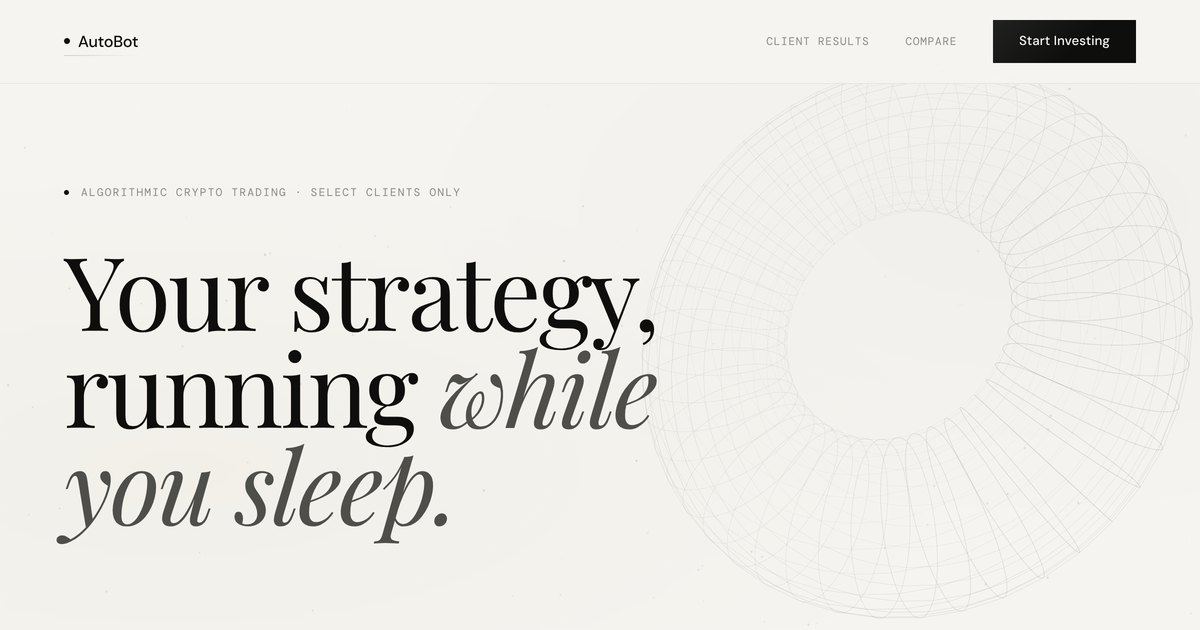
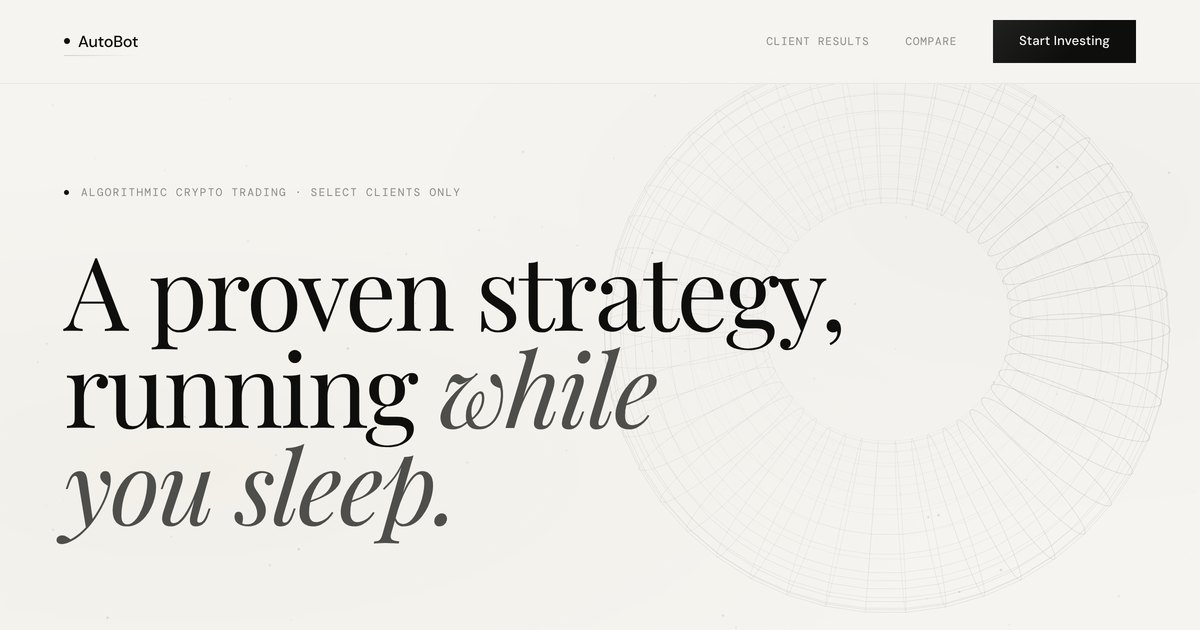
Homepage: one consistent story - a strategy our team builds and runs
- Hero: "A proven strategy, running while you sleep."
- Intro: AutoBot "runs our trading strategy in your account".
- Safety FAQ: rules-based strategy built and managed by our team; client
  chooses risk level; stops, size and drawdown limits enforced automatically.
- Meta/share descriptions updated to match; preview image regenerated.

Claude-Session: https://claude.ai/code/session_01BoLtU1gwejhGPjD2Pr7BHx

Changed region(s): [[0.0617, 0.3921, 0.7092, 0.573]]

diff --git a/index.html b/index.html
@@ -5,18 +5,18 @@
 <meta name="viewport" content="width=device-width, initial-scale=1.0">
 <meta name="format-detection" content="telephone=no">
 <title>AutoBot — Algorithmic Crypto Trading</title>
-<meta name="description" content="AutoBot runs your crypto trading strategy automatically, 24/7, directly inside your own Bybit or Hyperliquid account. Your funds never leave your exchange. Real verified client results, no profit-sharing — just one flat annual fee.">
+<meta name="description" content="AutoBot runs our proven crypto trading strategy automatically, 24/7, directly inside your own Bybit or Hyperliquid account. Your funds never leave your exchange. Real client results, no profit-sharing — just one flat annual fee.">
 <meta property="og:type" content="website">
 <meta property="og:site_name" content="AutoBot">
 <meta property="og:title" content="AutoBot — Algorithmic Crypto Trading">
-<meta property="og:description" content="Your strategy, running while you sleep. Fully automated crypto trading that never touches your funds — connects directly to your own exchange account, 24/7.">
+<meta property="og:description" content="A proven strategy, running while you sleep. Fully automated crypto trading that never touches your funds — connects directly to your own exchange account, 24/7.">
 <meta property="og:url" content="https://autobot.trading/">
 <meta property="og:image" content="https://autobot.trading/og-image.jpg">
 <meta property="og:image:width" content="1200">
 <meta property="og:image:height" content="630">
 <meta name="twitter:card" content="summary_large_image">
 <meta name="twitter:title" content="AutoBot — Algorithmic Crypto Trading">
-<meta name="twitter:description" content="Your strategy, running while you sleep. Fully automated crypto trading that never touches your funds.">
+<meta name="twitter:description" content="A proven strategy, running while you sleep. Fully automated crypto trading that never touches your funds.">
 <meta name="twitter:image" content="https://autobot.trading/og-image.jpg">
 <link rel="preconnect" href="https://fonts.googleapis.com">
 <link href="https://fonts.googleapis.com/css2?family=Playfair+Display:ital,wght@0,400;0,500;1,400;1,500&family=DM+Sans:wght@300;400;500&family=DM+Mono:wght@300;400&display=swap" rel="stylesheet">
@@ -763,9 +763,9 @@ footer{position:relative;}
 <section class="hero">
   <div class="hero-content">
     <div class="hero-eyebrow fade-up"><span class="eyebrow-dot"></span>Algorithmic crypto trading · Select clients only</div>
-    <h1 class="fade-up">Your strategy,<br>running <em>while<br>you sleep.</em></h1>
+    <h1 class="fade-up">A proven strategy,<br>running <em>while<br>you sleep.</em></h1>
     <div class="hero-row fade-up">
-      <p class="hero-sub">AutoBot connects to <strong>Bybit</strong> and <strong>Hyperliquid</strong> through a secure API and executes your trading strategy automatically — every minute of every day, without you having to touch a thing.</p>
+      <p class="hero-sub">AutoBot connects to <strong>Bybit</strong> and <strong>Hyperliquid</strong> through a secure API and runs our trading strategy in your account automatically — every minute of every day, without you having to touch a thing.</p>
       <div class="hero-right">
         <a href="#contact" class="btn-primary">Start Investing →</a>
         <p class="hero-reassure">No pricing on this page.<br>Our team walks you through everything.</p>
@@ -1056,7 +1056,7 @@ footer{position:relative;}
     <p>Everything you need to know before talking to our team. If something isn't here, ask us directly.</p>
   </div>
   <div class="faq-right">
-    <div class="faq-item fade-up"><div class="faq-q" onclick="toggleFaq(this)">Is my capital safe? What if the bot makes a bad trade?<span class="faq-icon">+</span></div><div class="faq-a">AutoBot executes the strategy you define — it doesn't invent its own decisions. Your risk parameters (stop-loss, position size limits, max drawdown) are set by you and enforced automatically. The bot cannot access or withdraw your funds — it only places orders. Your capital stays on Bybit or Hyperliquid at all times.</div></div>
+    <div class="faq-item fade-up"><div class="faq-q" onclick="toggleFaq(this)">Is my capital safe? What if the bot makes a bad trade?<span class="faq-icon">+</span></div><div class="faq-a">AutoBot runs a rules-based strategy built and managed by our team — it doesn't improvise. You choose your risk level, and stop-losses, position size limits and drawdown limits are enforced automatically on every trade. The bot cannot access or withdraw your funds — it only places orders. Your capital stays on Bybit or Hyperliquid at all times.</div></div>
     <div class="faq-item fade-up"><div class="faq-q" onclick="toggleFaq(this)">What is the minimum capital required?<span class="faq-icon">+</span></div><div class="faq-a">There's no hard minimum set by AutoBot. In practice, most clients start with $5,000–$10,000 to allow meaningful position sizing. Our team will help you understand what makes sense for your specific strategy on the onboarding call.</div></div>
     <div class="faq-item fade-up"><div class="faq-q" onclick="toggleFaq(this)">Can I pause or stop it at any time?<span class="faq-icon">+</span></div><div class="faq-a">Yes. You can pause, adjust, or stop at any time from your dashboard. You can also revoke API keys directly from Bybit or Hyperliquid — which instantly disconnects AutoBot from your account.</div></div>
     <div class="faq-item fade-up"><div class="faq-q" onclick="toggleFaq(this)">Do I need any technical knowledge?<span class="faq-icon">+</span></div><div class="faq-a">None. Our team handles the full setup on your onboarding call. No code, no configuration files, no technical background needed.</div></div>
